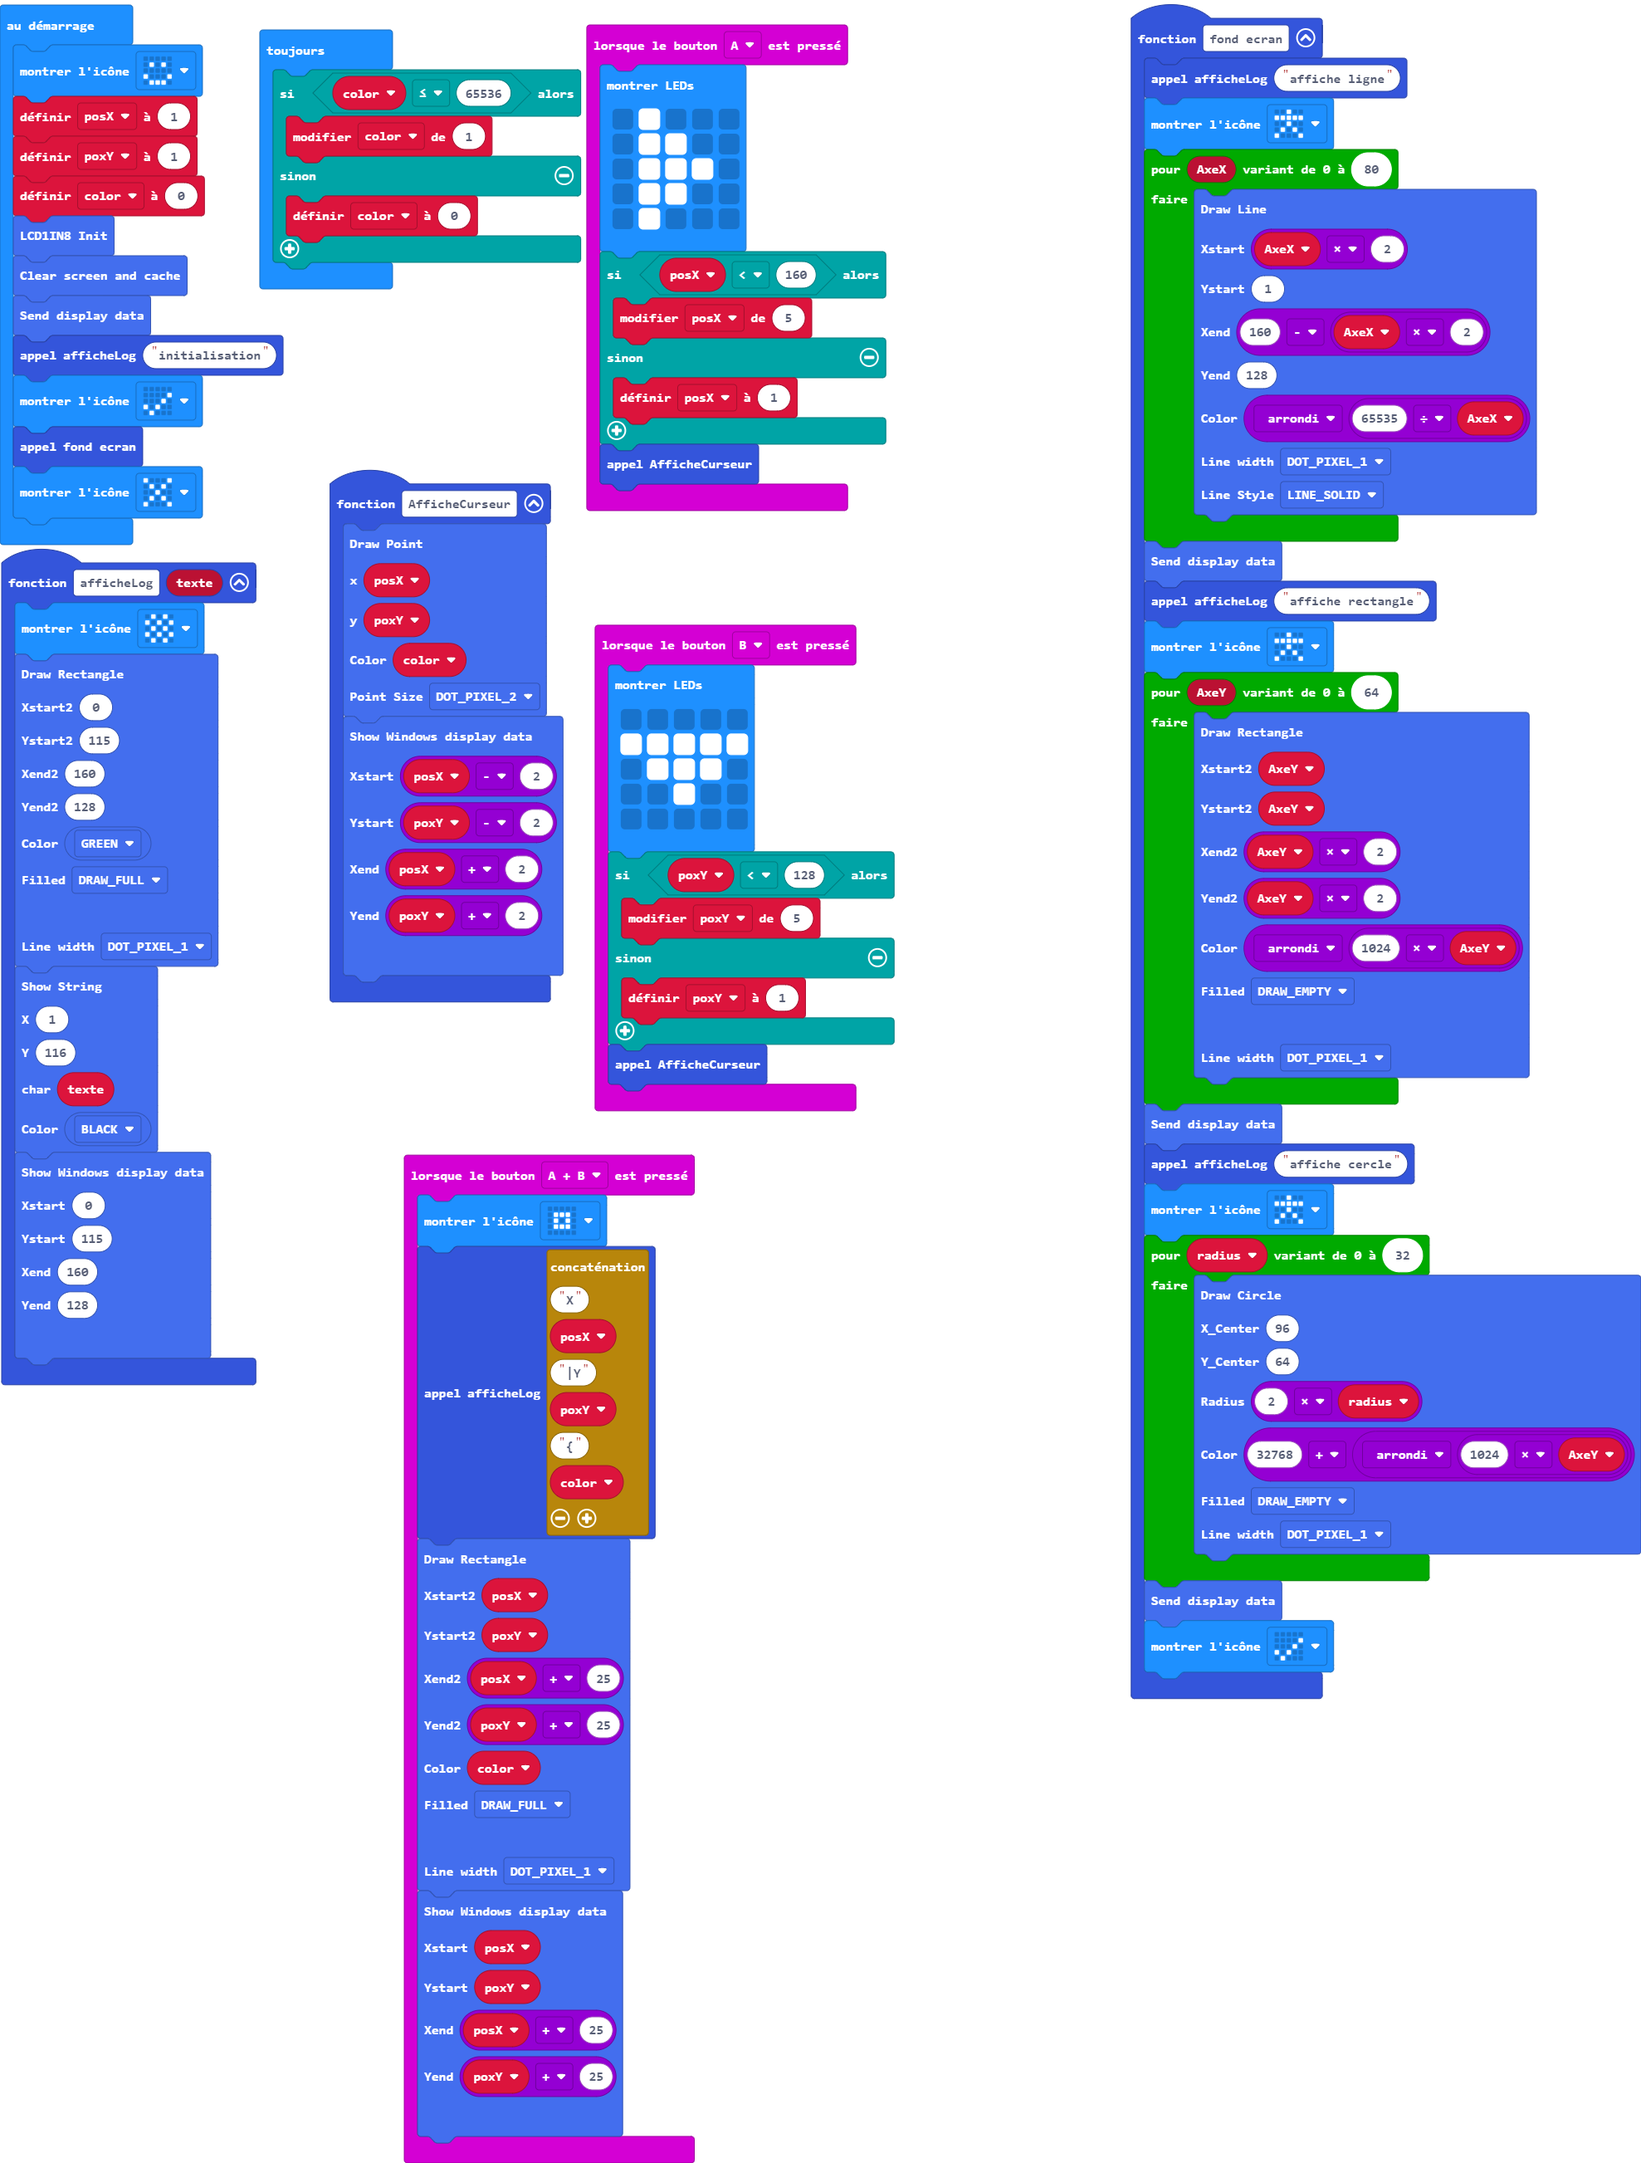
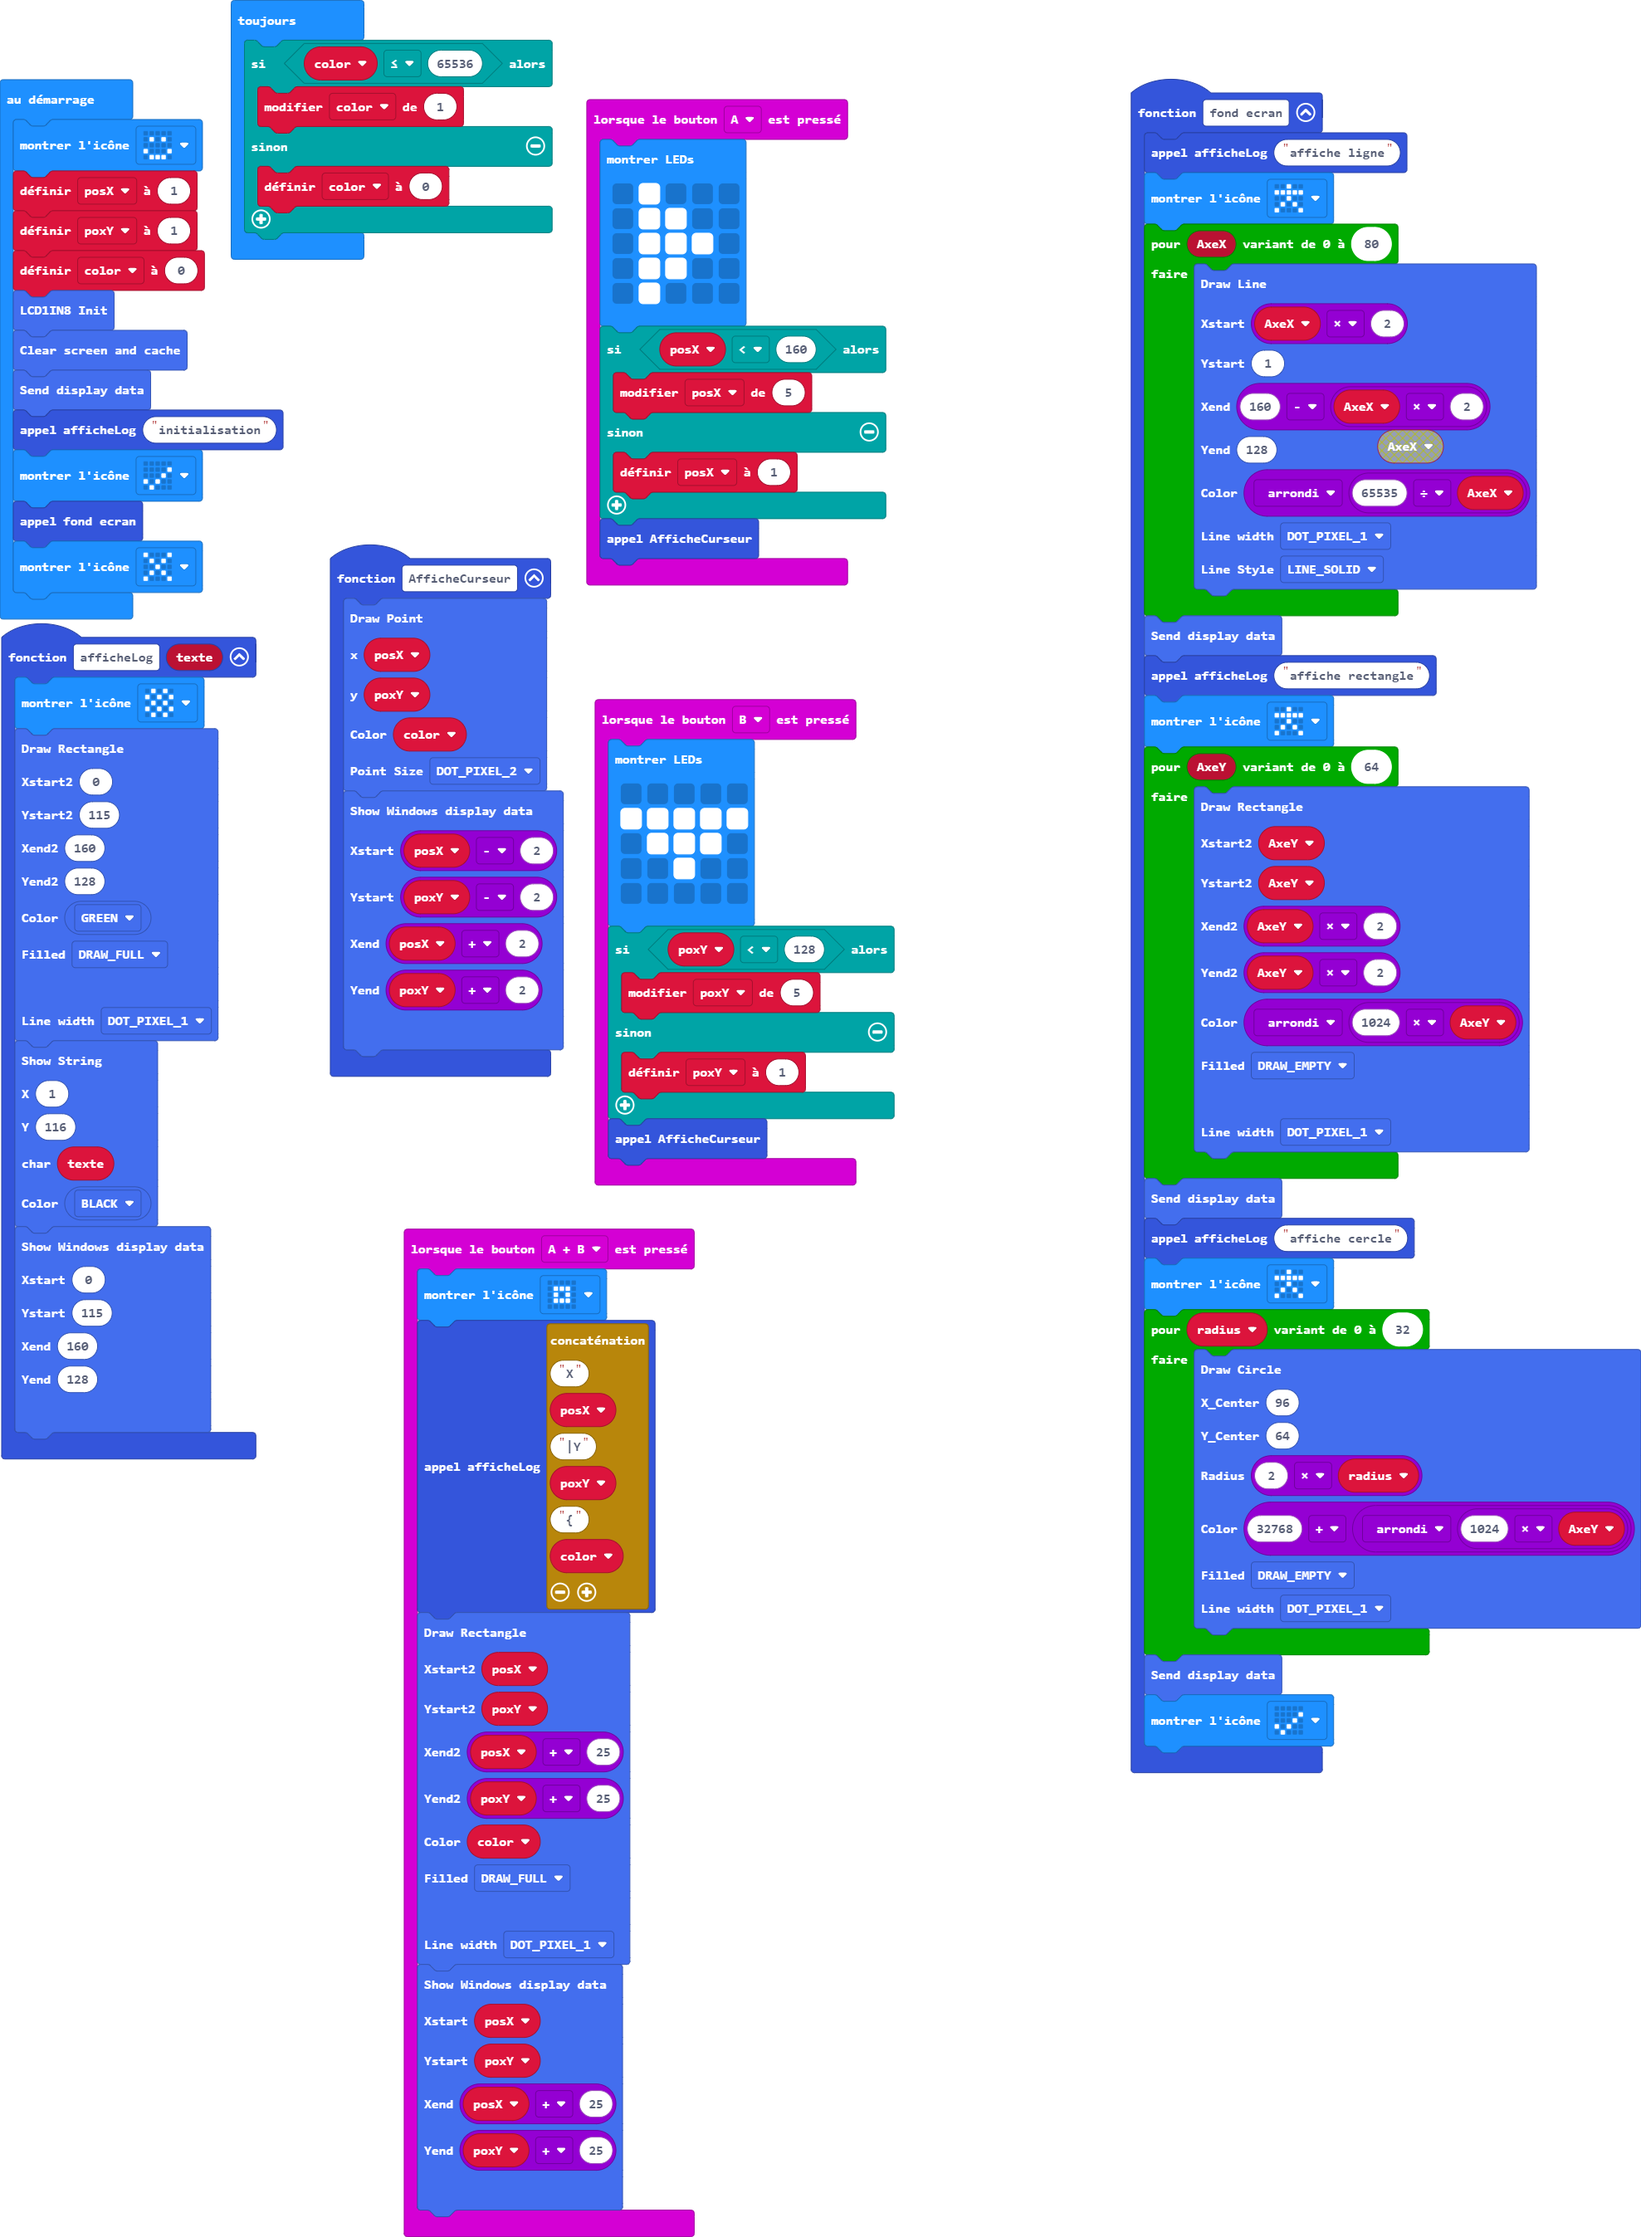
Mise à jour main.blocks, main.py

Changed region(s): [[0.0, 0.0, 0.5554, 0.995], [0.6788, 0.0, 1.0, 0.8084]]

diff --git a/main.py b/main.py
@@ -12,10 +12,10 @@ def afficheLog(texte: str):
 def fond_ecran():
     afficheLog("affiche ligne")
     basic.show_icon(IconNames.STICK_FIGURE)
-    for AxeX in range(161):
-        LCD1IN8.draw_line(AxeX,
+    for AxeX in range(81):
+        LCD1IN8.draw_line(AxeX * 2,
             1,
-            160 - AxeX,
+            160 - AxeX * 2,
             128,
             Math.round(65535 / AxeX),
             DOT_PIXEL.DOT_PIXEL_1,
@@ -55,11 +55,24 @@ def on_button_pressed_a():
                 . # . . .
     """)
     if posX < 160:
-        posX += 1
+        posX += 5
     else:
         posX = 1
     AfficheCurseur()
 input.on_button_pressed(Button.A, on_button_pressed_a)
+
+def on_button_pressed_ab():
+    basic.show_icon(IconNames.SMALL_SQUARE)
+    afficheLog("X" + str(posX) + "|Y" + str(poxY) + "{" + str(color))
+    LCD1IN8.draw_rectangle(posX,
+        poxY,
+        posX + 25,
+        poxY + 25,
+        color,
+        DRAW_FILL.DRAW_FULL,
+        DOT_PIXEL.DOT_PIXEL_1)
+    LCD1IN8.LCD_DisplayWindows(posX, poxY, posX + 25, poxY + 25)
+input.on_button_pressed(Button.AB, on_button_pressed_ab)
 
 def on_button_pressed_b():
     global poxY
@@ -71,14 +84,13 @@ def on_button_pressed_b():
                 . . . . .
     """)
     if poxY < 128:
-        poxY += 1
+        poxY += 5
     else:
         poxY = 1
     AfficheCurseur()
 input.on_button_pressed(Button.B, on_button_pressed_b)
 
 def AfficheCurseur():
-    afficheLog("X" + str(posX) + "|Y" + str(poxY))
     LCD1IN8.draw_point(posX, poxY, color, DOT_PIXEL.DOT_PIXEL_2)
     LCD1IN8.LCD_DisplayWindows(posX - 2, poxY - 2, posX + 2, poxY + 2)
 color = 0
@@ -98,7 +110,6 @@ basic.show_icon(IconNames.NO)
 
 def on_forever():
     global color
-    basic.show_icon(IconNames.SQUARE)
     if color <= 65536:
         color += 1
     else:
